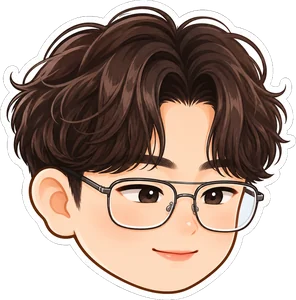
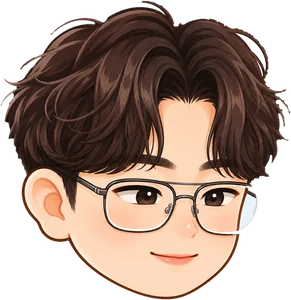
사람 스티커 흰 테두리 제거, 사람을 강아지 앞으로
Claude-Session: https://claude.ai/code/session_01Bp4D1e8R3jVkLidfusfvCF

Changed region(s): [[0.0, 0.0, 1.0, 1.0], [0.2784, 0.48, 0.3093, 0.51]]

diff --git a/index.html b/index.html
@@ -45,7 +45,7 @@ h2{font-family:Jua,sans-serif;font-weight:400;font-size:26px;margin:0 0 14px}
 .b2.photo{width:96px;height:96px;right:24px;top:150px;background:url(balloon-2.webp) 50% 55%/84% no-repeat,radial-gradient(circle at 32% 26%,#F1ECFF,var(--lav) 58%,#A893F0);box-shadow:0 0 0 4px rgba(255,255,255,.7),0 10px 18px rgba(74,45,94,.22),inset -8px -10px 18px rgba(74,45,94,.16),inset 8px 10px 18px rgba(255,255,255,.85)}
 .b3.photo{width:92px;height:92px;left:auto;right:108px;top:153px;background:url(balloon-3.webp) 50% 55%/84% no-repeat,radial-gradient(circle at 32% 26%,#E6F5FF,var(--sky) 58%,#7CC3F2);box-shadow:0 0 0 4px rgba(255,255,255,.7),0 10px 18px rgba(74,45,94,.22),inset -8px -10px 18px rgba(74,45,94,.16),inset 8px 10px 18px rgba(255,255,255,.85)}
 .blob.photo{border-radius:0;box-shadow:none!important;background-color:transparent;background-repeat:no-repeat;background-position:center;background-size:contain;filter:drop-shadow(0 8px 10px rgba(74,45,94,.28))}
-.b1.photo{background-image:url(balloon-1.webp?v=2);z-index:1}.b2.photo{background-image:url(balloon-2.webp)}.b3.photo{background-image:url(balloon-3.webp)}
+.b1.photo{background-image:url(balloon-1.webp?v=2)}.b2.photo{background-image:url(balloon-2.webp?v=2);z-index:1}.b3.photo{background-image:url(balloon-3.webp?v=2);z-index:1}
 .blob.photo::before,.blob.photo::after{display:none}
 .top .in{position:relative;z-index:1}
 .top h1{max-width:calc(100% - 130px);word-break:keep-all;font-size:clamp(40px,11vw,46px)}

diff --git a/sw.js b/sw.js
@@ -1,6 +1,6 @@
 // 인터넷이 될 때는 항상 최신 파일을, 안 될 때는 마지막으로 받아 둔 파일을 보여줘요.
-const CACHE = 'trip-app-v12';
-const FILES = ['./', './index.html', './manifest.webmanifest', './icon-192.png', './icon-512.png', './icon-180.png', './balloon-1.webp?v=2', './balloon-2.webp', './balloon-3.webp'];
+const CACHE = 'trip-app-v13';
+const FILES = ['./', './index.html', './manifest.webmanifest', './icon-192.png', './icon-512.png', './icon-180.png', './balloon-1.webp?v=2', './balloon-2.webp?v=2', './balloon-3.webp?v=2'];
 self.addEventListener('install', e => { e.waitUntil(caches.open(CACHE).then(c => c.addAll(FILES))); self.skipWaiting(); });
 self.addEventListener('activate', e => { e.waitUntil(caches.keys().then(ks => Promise.all(ks.filter(k => k !== CACHE).map(k => caches.delete(k))))); self.clients.claim(); });
 self.addEventListener('fetch', e => {
